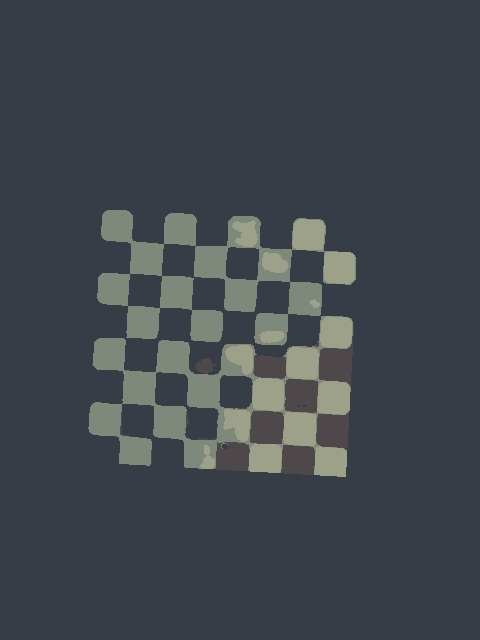
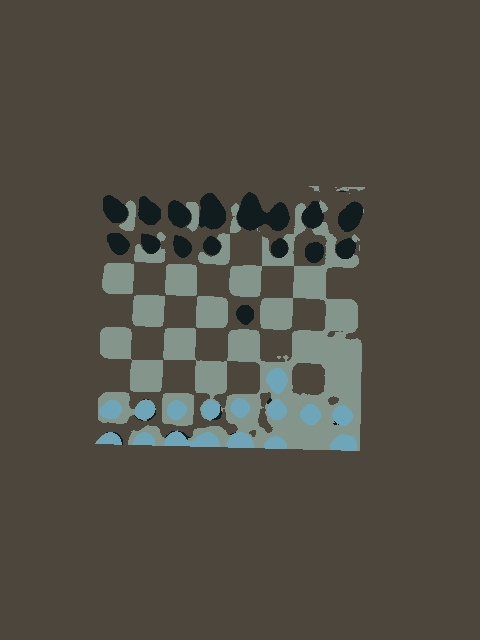
Fixed error on image reading

Changed region(s): [[0.1875, 0.2812, 0.7812, 0.75]]

diff --git a/IK_Solvers/traditional.py b/IK_Solvers/traditional.py
@@ -6,7 +6,7 @@ from IK_Solvers.quintic_polynomials_planner import QuinticPolynomial
 
 class ChessMoves():
     
-    def __init__(self, lift=50, square_width=30, base_dist=200, board_height=5, grip_height=20, L1=296, L2=284.76):
+    def __init__(self, lift=50, square_width=30, base_dist=230, board_height=20, grip_height=20, L1=296, L2=284.76):
         self.LIFT = lift # distance to clear the other pieces in mm
         self.SQUARE_WIDTH = square_width # width of one board square in mm
         self.BASE_DIST = base_dist # distance from edge of the board to the robot base in mm
@@ -15,7 +15,7 @@ class ChessMoves():
         self.L1 = L1 # length of the first link in mm
         self.L2 = L2 # length of the second link in mm
         self.BOARD_WIDTH = 8 * self.SQUARE_WIDTH # total width of the board
-        self.HOME = np.array([0, self.BASE_DIST+40, 500]) # location of home for the robot arm between moves
+        self.HOME = np.array([0, self.BASE_DIST, 500]) # location of home for the robot arm between moves
 
         self.generate_coords()
         self.initialize_arm()

diff --git a/Chessboard_detection/Fake_Camera.py b/Chessboard_detection/Fake_Camera.py
@@ -94,12 +94,13 @@ class RPiCamera:
         self.camera.rotation = 270
 
         self.path_full = absPath
-        self.stateNum = 1
+        self.stateNum = -1
     
     def read(self):
         # self.stateNum = 10 # use this line to skip the saved empty picture and do it by hand
         if self.stateNum <= 0:
             self.frame = cv.imread(self.path_full +"/empty.jpg")
+            self.frame = cv.cvtColor(self.frame, cv.COLOR_RGB2BGR)
 
             if self.frame is None:
                 print("Cannot read stored initialization file")
@@ -113,7 +114,7 @@ class RPiCamera:
             self.camera.capture(output, 'rgb')
             self.camera.stop_preview()
             # self.camera.close()
-            self.frame = cv.CvtColor(output, cv.COLOR_RGB2BGR)
+            self.frame = output.copy()
         ret = self.frame is not None
 
         self.stateNum += 1

diff --git a/Chessboard_detection/pi_debugging.py b/Chessboard_detection/pi_debugging.py
@@ -5,5 +5,4 @@ def saveImg(img, name):
     dirPath = os.path.dirname(os.path.realpath(__file__))
     relPath = "/TestImages/Temp"
     img1 = cv.cvtColor(img, cv.COLOR_BGR2RGB)
-    print(dirPath+relPath+"/"+name)
     cv.imwrite(dirPath+relPath+"/"+name, img1)
